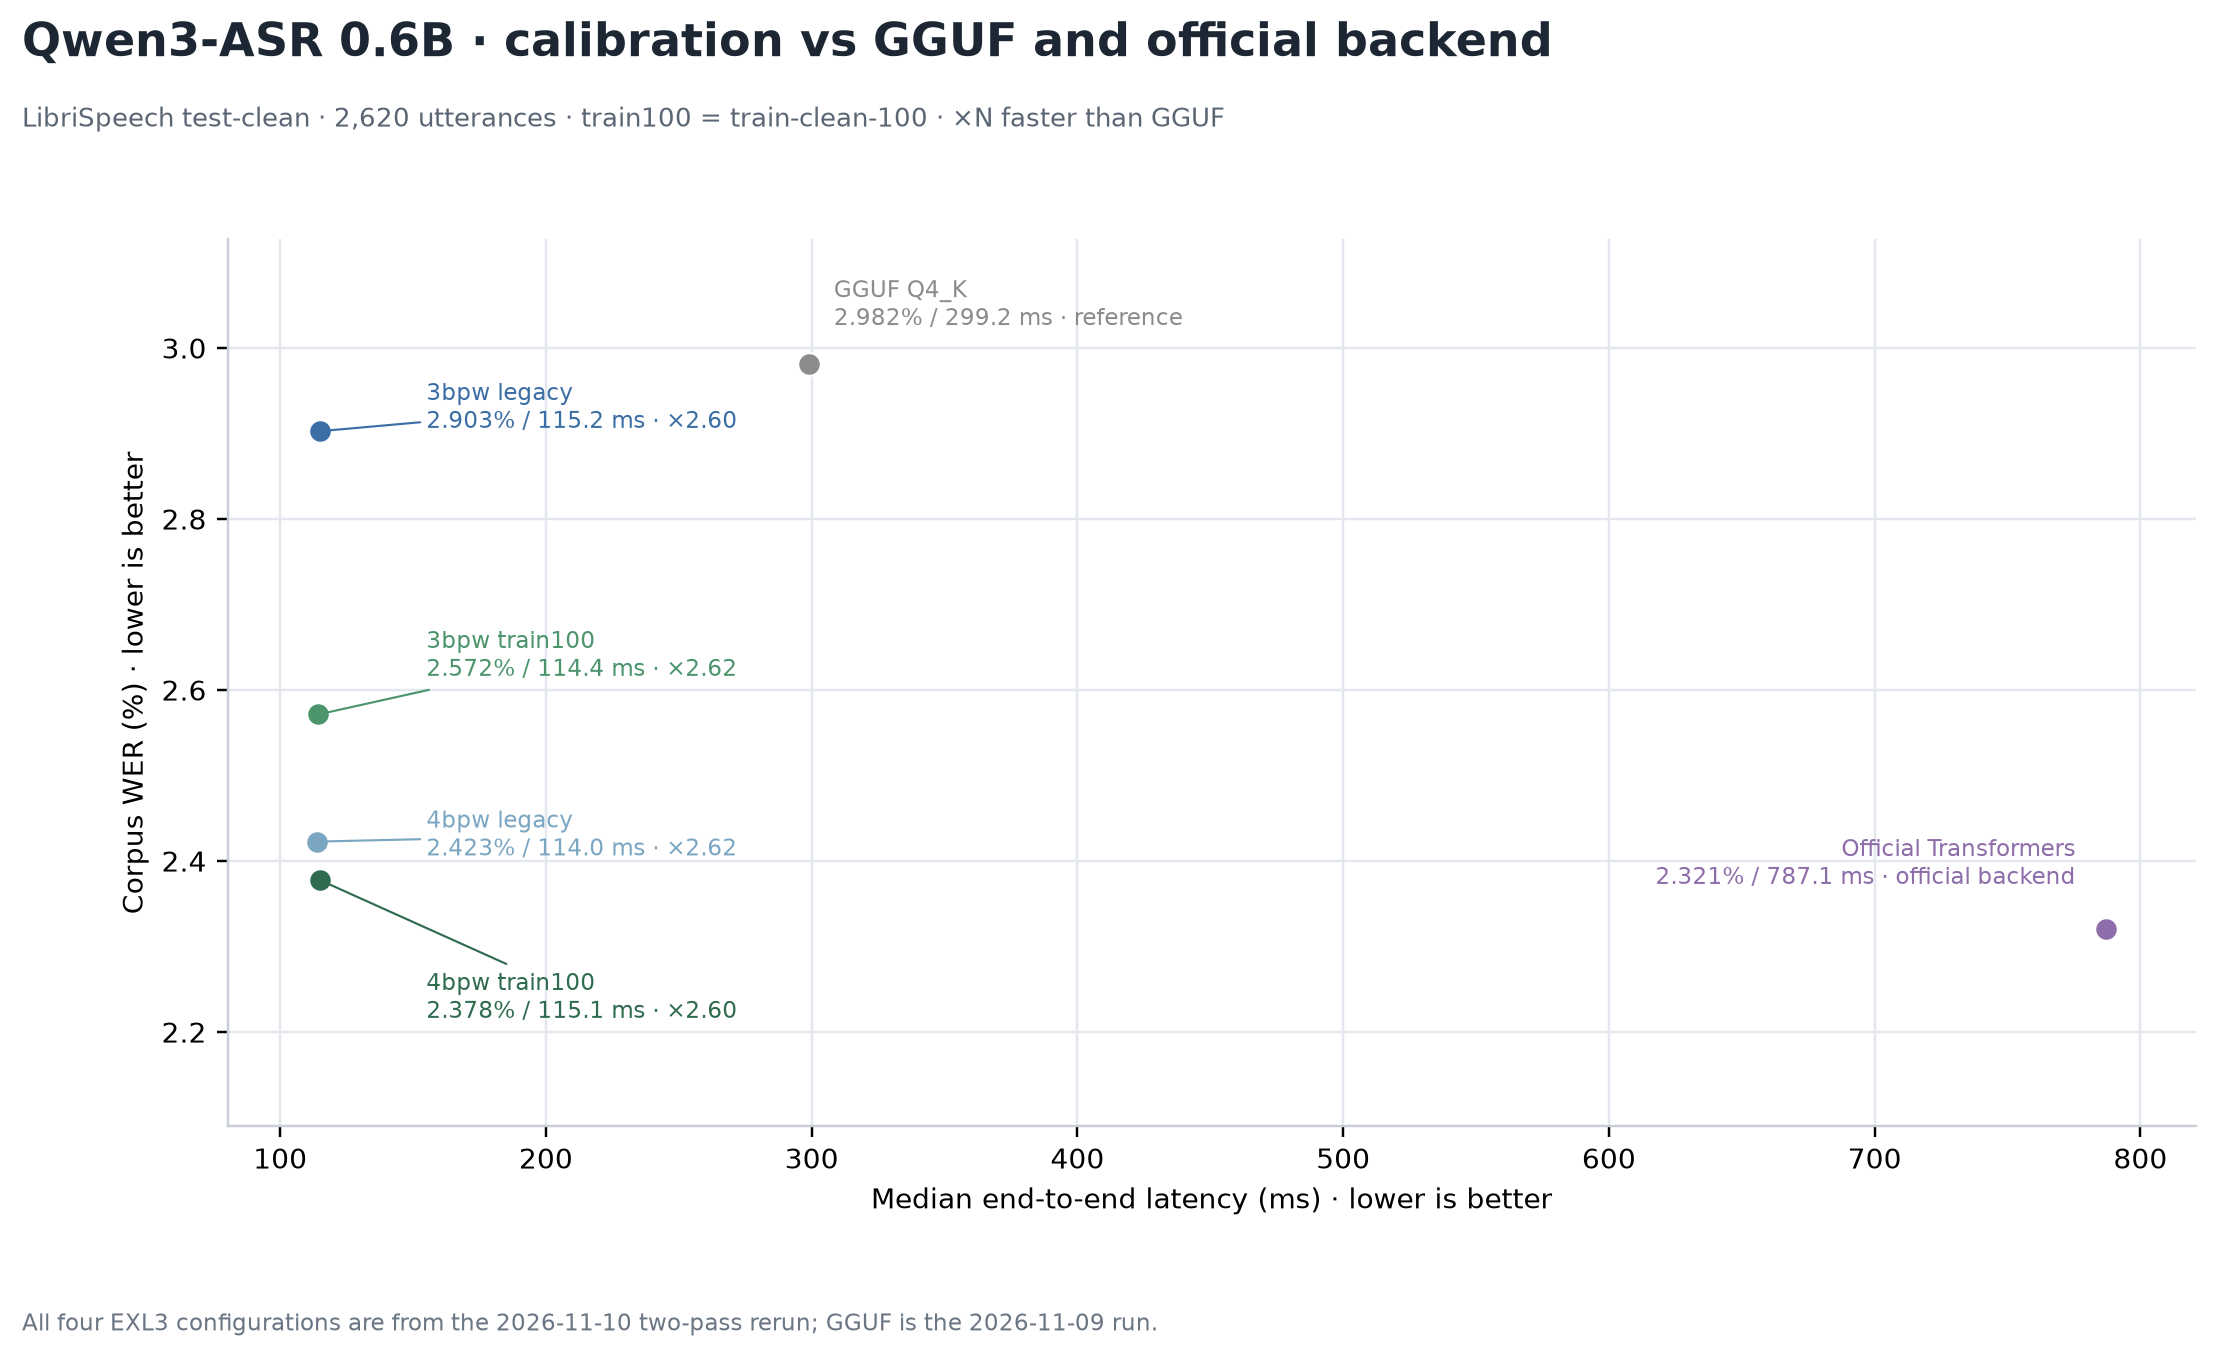
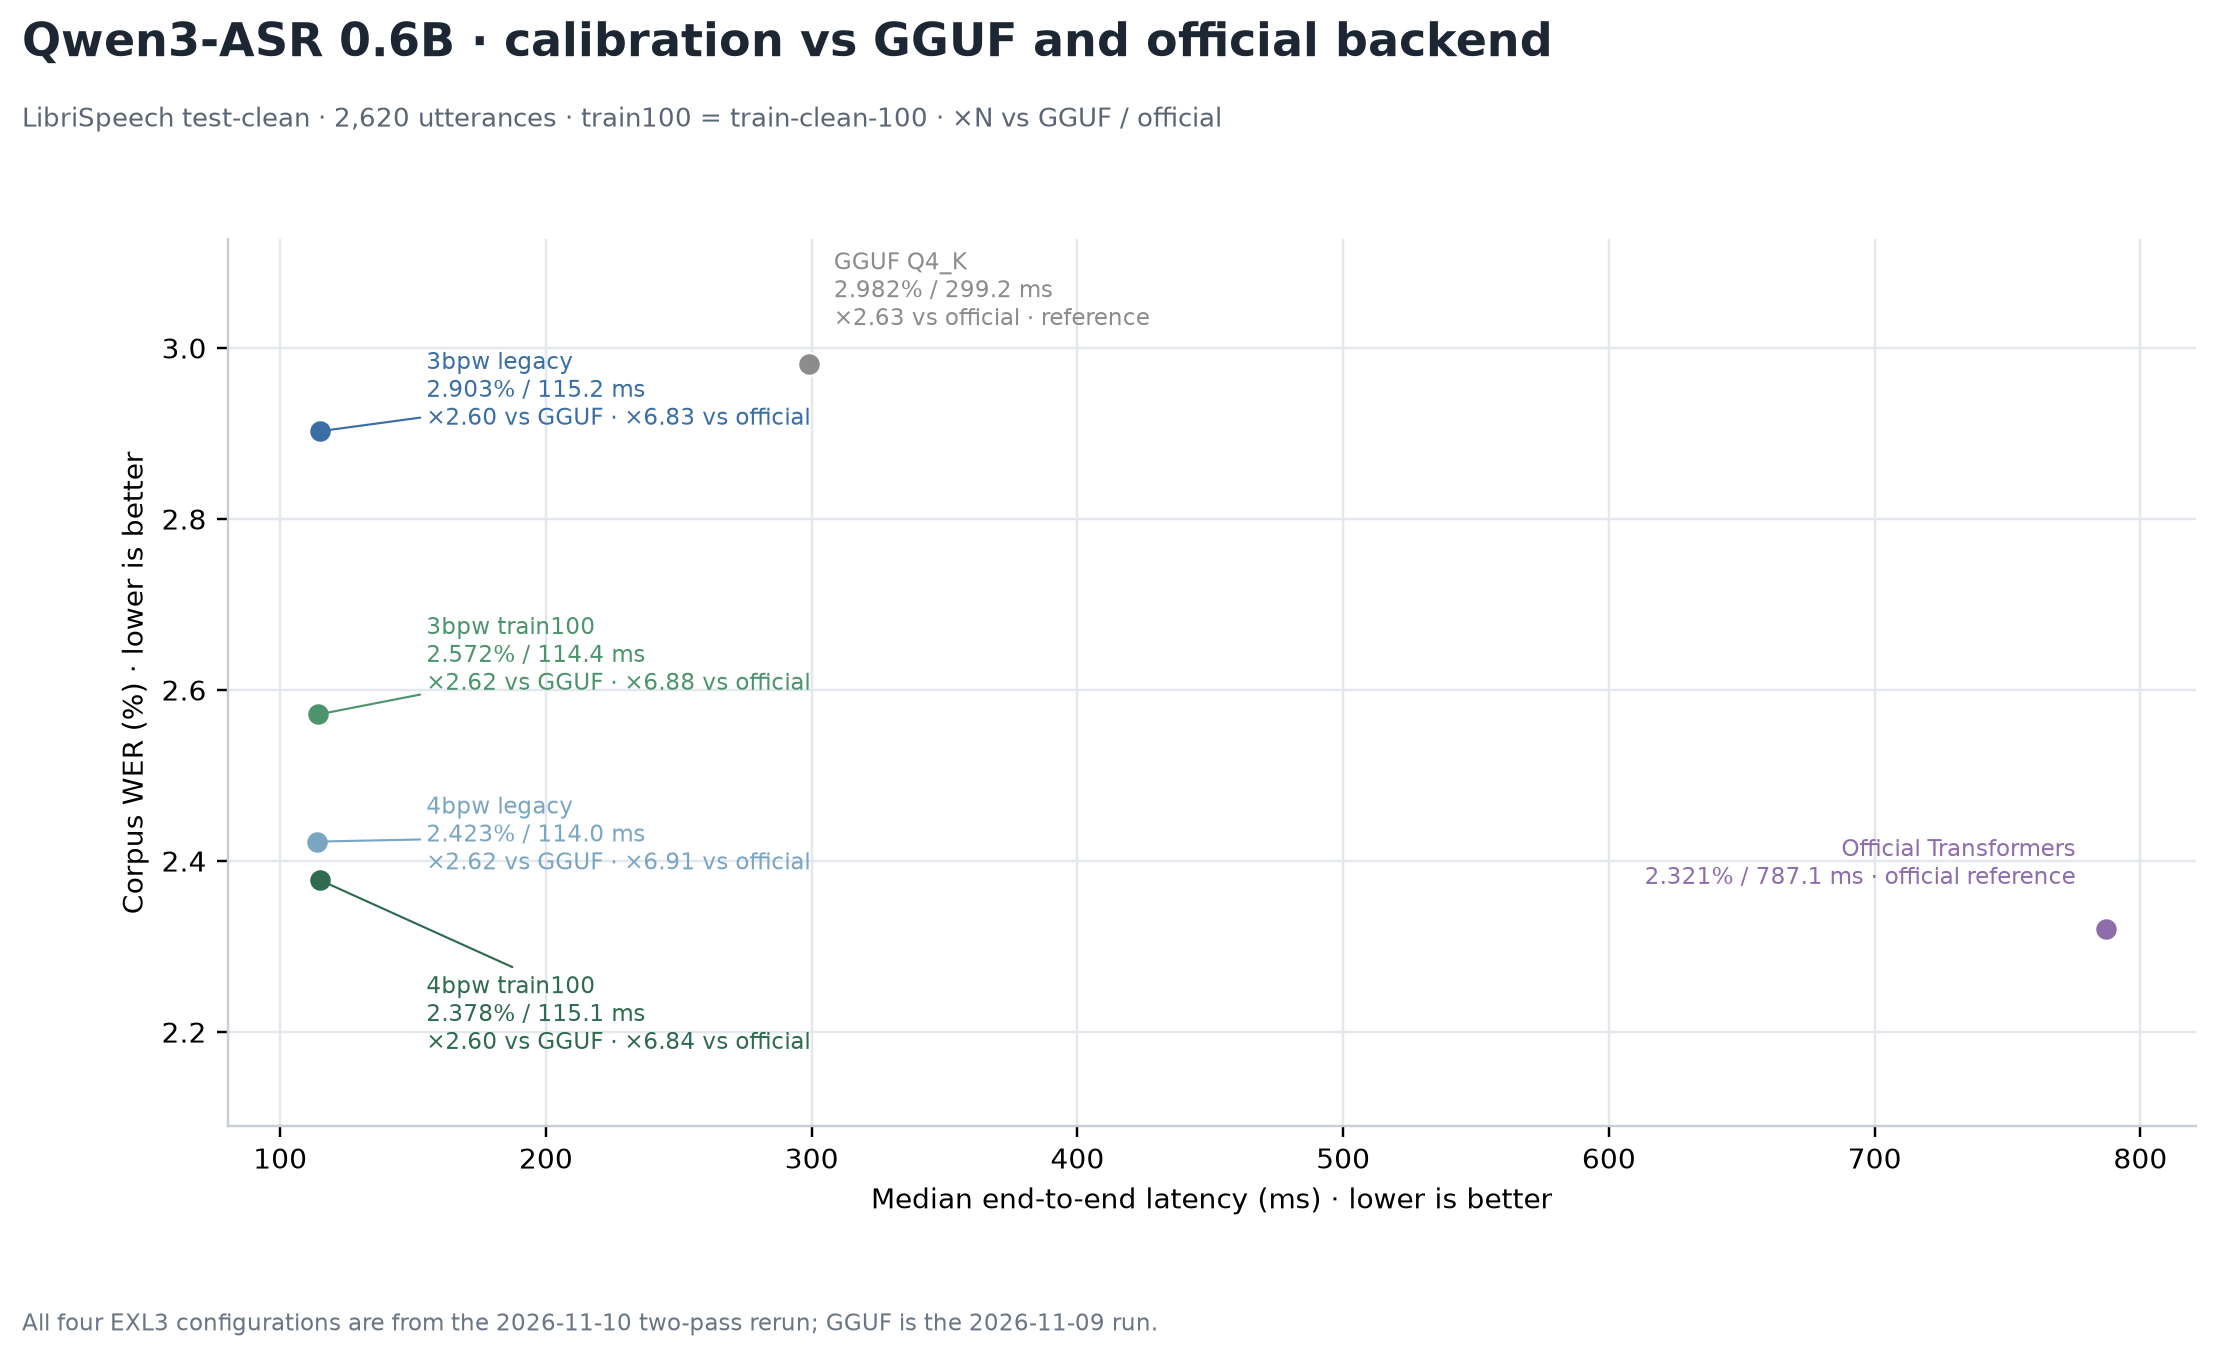
Compare GGUF with official backend

diff --git a/tools/plot_qwen3_calibration_gguf_comparison.py b/tools/plot_qwen3_calibration_gguf_comparison.py
@@ -117,8 +117,10 @@ def collect(model):
         }
     )
     gguf_latency = records[-2]["medianMs"]
+    official_latency = records[-1]["medianMs"]
     for record in records[:-2]:
         record["speedupVsGguf"] = gguf_latency / record["medianMs"]
+        record["speedupVsOfficial"] = official_latency / record["medianMs"]
     return records
 
 
@@ -156,24 +158,34 @@ def plot_flat(model, records):
     fig, ax = plt.subplots(figsize=(10.4, 6.4))
     fig.subplots_adjust(left=0.11, right=0.97, top=0.82, bottom=0.19)
     gguf_latency = records[-2]["medianMs"]
+    official_latency = records[-1]["medianMs"]
     callouts = None
     if model == "0.6b":
         callouts = {
-            "3bpw legacy": (155, 2.93),
+            "3bpw legacy": (155, 2.95),
             "3bpw train100": (155, 2.64),
             "4bpw legacy": (155, 2.43),
-            "4bpw train100": (155, 2.24),
+            "4bpw train100": (155, 2.22),
+        }
+    else:
+        callouts = {
+            "3bpw train100": (240, 2.14),
+            "3bpw legacy": (240, 2.05),
+            "4bpw legacy": (240, 1.96),
+            "4bpw train100": (240, 1.87),
         }
     for record, color, offset, align in zip(records, colors, offsets, aligns):
         x = record["medianMs"]
         y = record["corpusWER"] * 100
         ax.scatter(x, y, s=55, color=color, edgecolor="white", linewidth=0.7, zorder=3)
         if record["name"].startswith("GGUF"):
-            detail = f"{y:.3f}% / {x:.1f} ms · reference"
+            detail = (f"{y:.3f}% / {x:.1f} ms\n"
+                      f"×{official_latency / x:.2f} vs official · reference")
         elif record["name"].startswith("Official"):
-            detail = f"{y:.3f}% / {x:.1f} ms · official backend"
+            detail = f"{y:.3f}% / {x:.1f} ms · official reference"
         else:
-            detail = f"{y:.3f}% / {x:.1f} ms · ×{gguf_latency / x:.2f}"
+            detail = (f"{y:.3f}% / {x:.1f} ms\n"
+                      f"×{gguf_latency / x:.2f} vs GGUF · ×{official_latency / x:.2f} vs official")
         text = f"{record['name']}\n{detail}"
         if callouts and record["name"] in callouts:
             label_x, label_y = callouts[record["name"]]
@@ -211,7 +223,7 @@ def plot_flat(model, records):
     fig.text(0.02, 0.95, f"Qwen3-ASR {model.upper()} · calibration vs GGUF and official backend",
              fontsize=15, fontweight="bold", color="#1d2733")
     fig.text(0.02, 0.90,
-             "LibriSpeech test-clean · 2,620 utterances · train100 = train-clean-100 · ×N faster than GGUF",
+             "LibriSpeech test-clean · 2,620 utterances · train100 = train-clean-100 · ×N vs GGUF / official",
              fontsize=8.4, color="#5b6675")
     fig.text(0.02, 0.045, MODELS[model]["note"], fontsize=7.6, color="#6b7685")
     save(fig, f"windows-librispeech-{MODELS[model]['flat']}")

diff --git a/docs/LIBRISPEECH_WER.md b/docs/LIBRISPEECH_WER.md
@@ -258,14 +258,14 @@ was not tested: vLLM 0.14.0 has no native Windows wheel.
 
 [SVG version](windows-librispeech-qwen3-0.6b-stage-latency.svg)
 
-| 0.6B decoder | WER | Median ms | Speed vs GGUF |
-| --- | ---: | ---: | ---: |
-| EXL3 3 bpw legacy | 2.9029% | 115.17 | ×2.60 |
-| EXL3 3 bpw train-clean-100 | 2.5715% | 114.37 | ×2.62 |
-| EXL3 4 bpw legacy | 2.4228% | 113.99 | ×2.62 |
-| EXL3 4 bpw train-clean-100 | **2.3776%** | 115.05 | ×2.60 |
-| GGUF Q4_K | 2.9819% | 299.15 | reference |
-| Official Transformers | **2.3212%** | 787.12 | ×0.38 |
+| 0.6B decoder | WER | Median ms | Speed vs GGUF | Speed vs official |
+| --- | ---: | ---: | ---: | ---: |
+| EXL3 3 bpw legacy | 2.9029% | 115.17 | ×2.60 | ×6.83 |
+| EXL3 3 bpw train-clean-100 | 2.5715% | 114.37 | ×2.62 | ×6.88 |
+| EXL3 4 bpw legacy | 2.4228% | 113.99 | ×2.62 | ×6.91 |
+| EXL3 4 bpw train-clean-100 | **2.3776%** | 115.05 | ×2.60 | ×6.84 |
+| GGUF Q4_K | 2.9819% | 299.15 | reference | ×2.63 |
+| Official Transformers | **2.3212%** | 787.12 | ×0.38 | reference |
 
 ![Qwen3-ASR 1.7B calibration vs GGUF](windows-librispeech-qwen3-1.7b-calibration-vs-gguf.png)
 
@@ -275,19 +275,19 @@ was not tested: vLLM 0.14.0 has no native Windows wheel.
 
 [SVG version](windows-librispeech-qwen3-1.7b-stage-latency.svg)
 
-| 1.7B decoder | WER | Median ms | Speed vs GGUF |
-| --- | ---: | ---: | ---: |
-| EXL3 3 bpw legacy | 2.0237% | 189.19 | ×2.07 |
-| EXL3 3 bpw train-clean-100 | 2.1329% | 194.25 | ×2.02 |
-| EXL3 4 bpw legacy | 1.9842% | 191.05 | ×2.05 |
-| EXL3 4 bpw train-clean-100 | **1.9484%** | 196.26 | ×2.00 |
-| GGUF Q4_K | 2.0896% | 391.81 | reference |
-| Official Transformers | **1.8863%** | 863.52 | ×0.45 |
+| 1.7B decoder | WER | Median ms | Speed vs GGUF | Speed vs official |
+| --- | ---: | ---: | ---: | ---: |
+| EXL3 3 bpw legacy | 2.0237% | 189.19 | ×2.07 | ×4.56 |
+| EXL3 3 bpw train-clean-100 | 2.1329% | 194.25 | ×2.02 | ×4.45 |
+| EXL3 4 bpw legacy | 1.9842% | 191.05 | ×2.05 | ×4.52 |
+| EXL3 4 bpw train-clean-100 | **1.9484%** | 196.26 | ×2.00 | ×4.40 |
+| GGUF Q4_K | 2.0896% | 391.81 | reference | ×2.20 |
+| Official Transformers | **1.8863%** | 863.52 | ×0.45 | reference |
 
 The EXL3 decoder paths are about 2.6× faster than GGUF Q4_K on 0.6B and
 about 2.0–2.1× faster on 1.7B. The official Transformers backend has the lowest
-WER in both tables, but it is 6.8× slower than EXL3 on 0.6B and 4.4× slower on
-1.7B. The stage chart shows that most of the gap is in the encoder and decoder
+WER in both tables, but it is 6.8–6.9× slower than EXL3 on 0.6B and 4.4–4.6×
+slower on 1.7B. The stage chart shows that most of the gap is in the encoder and decoder
 generation stages; the exact stage values are printed on the bars. For 0.6B,
 all four EXL3 points come from the 2026-11-10 two-pass rerun; GGUF is the
 2026-11-09 run.
